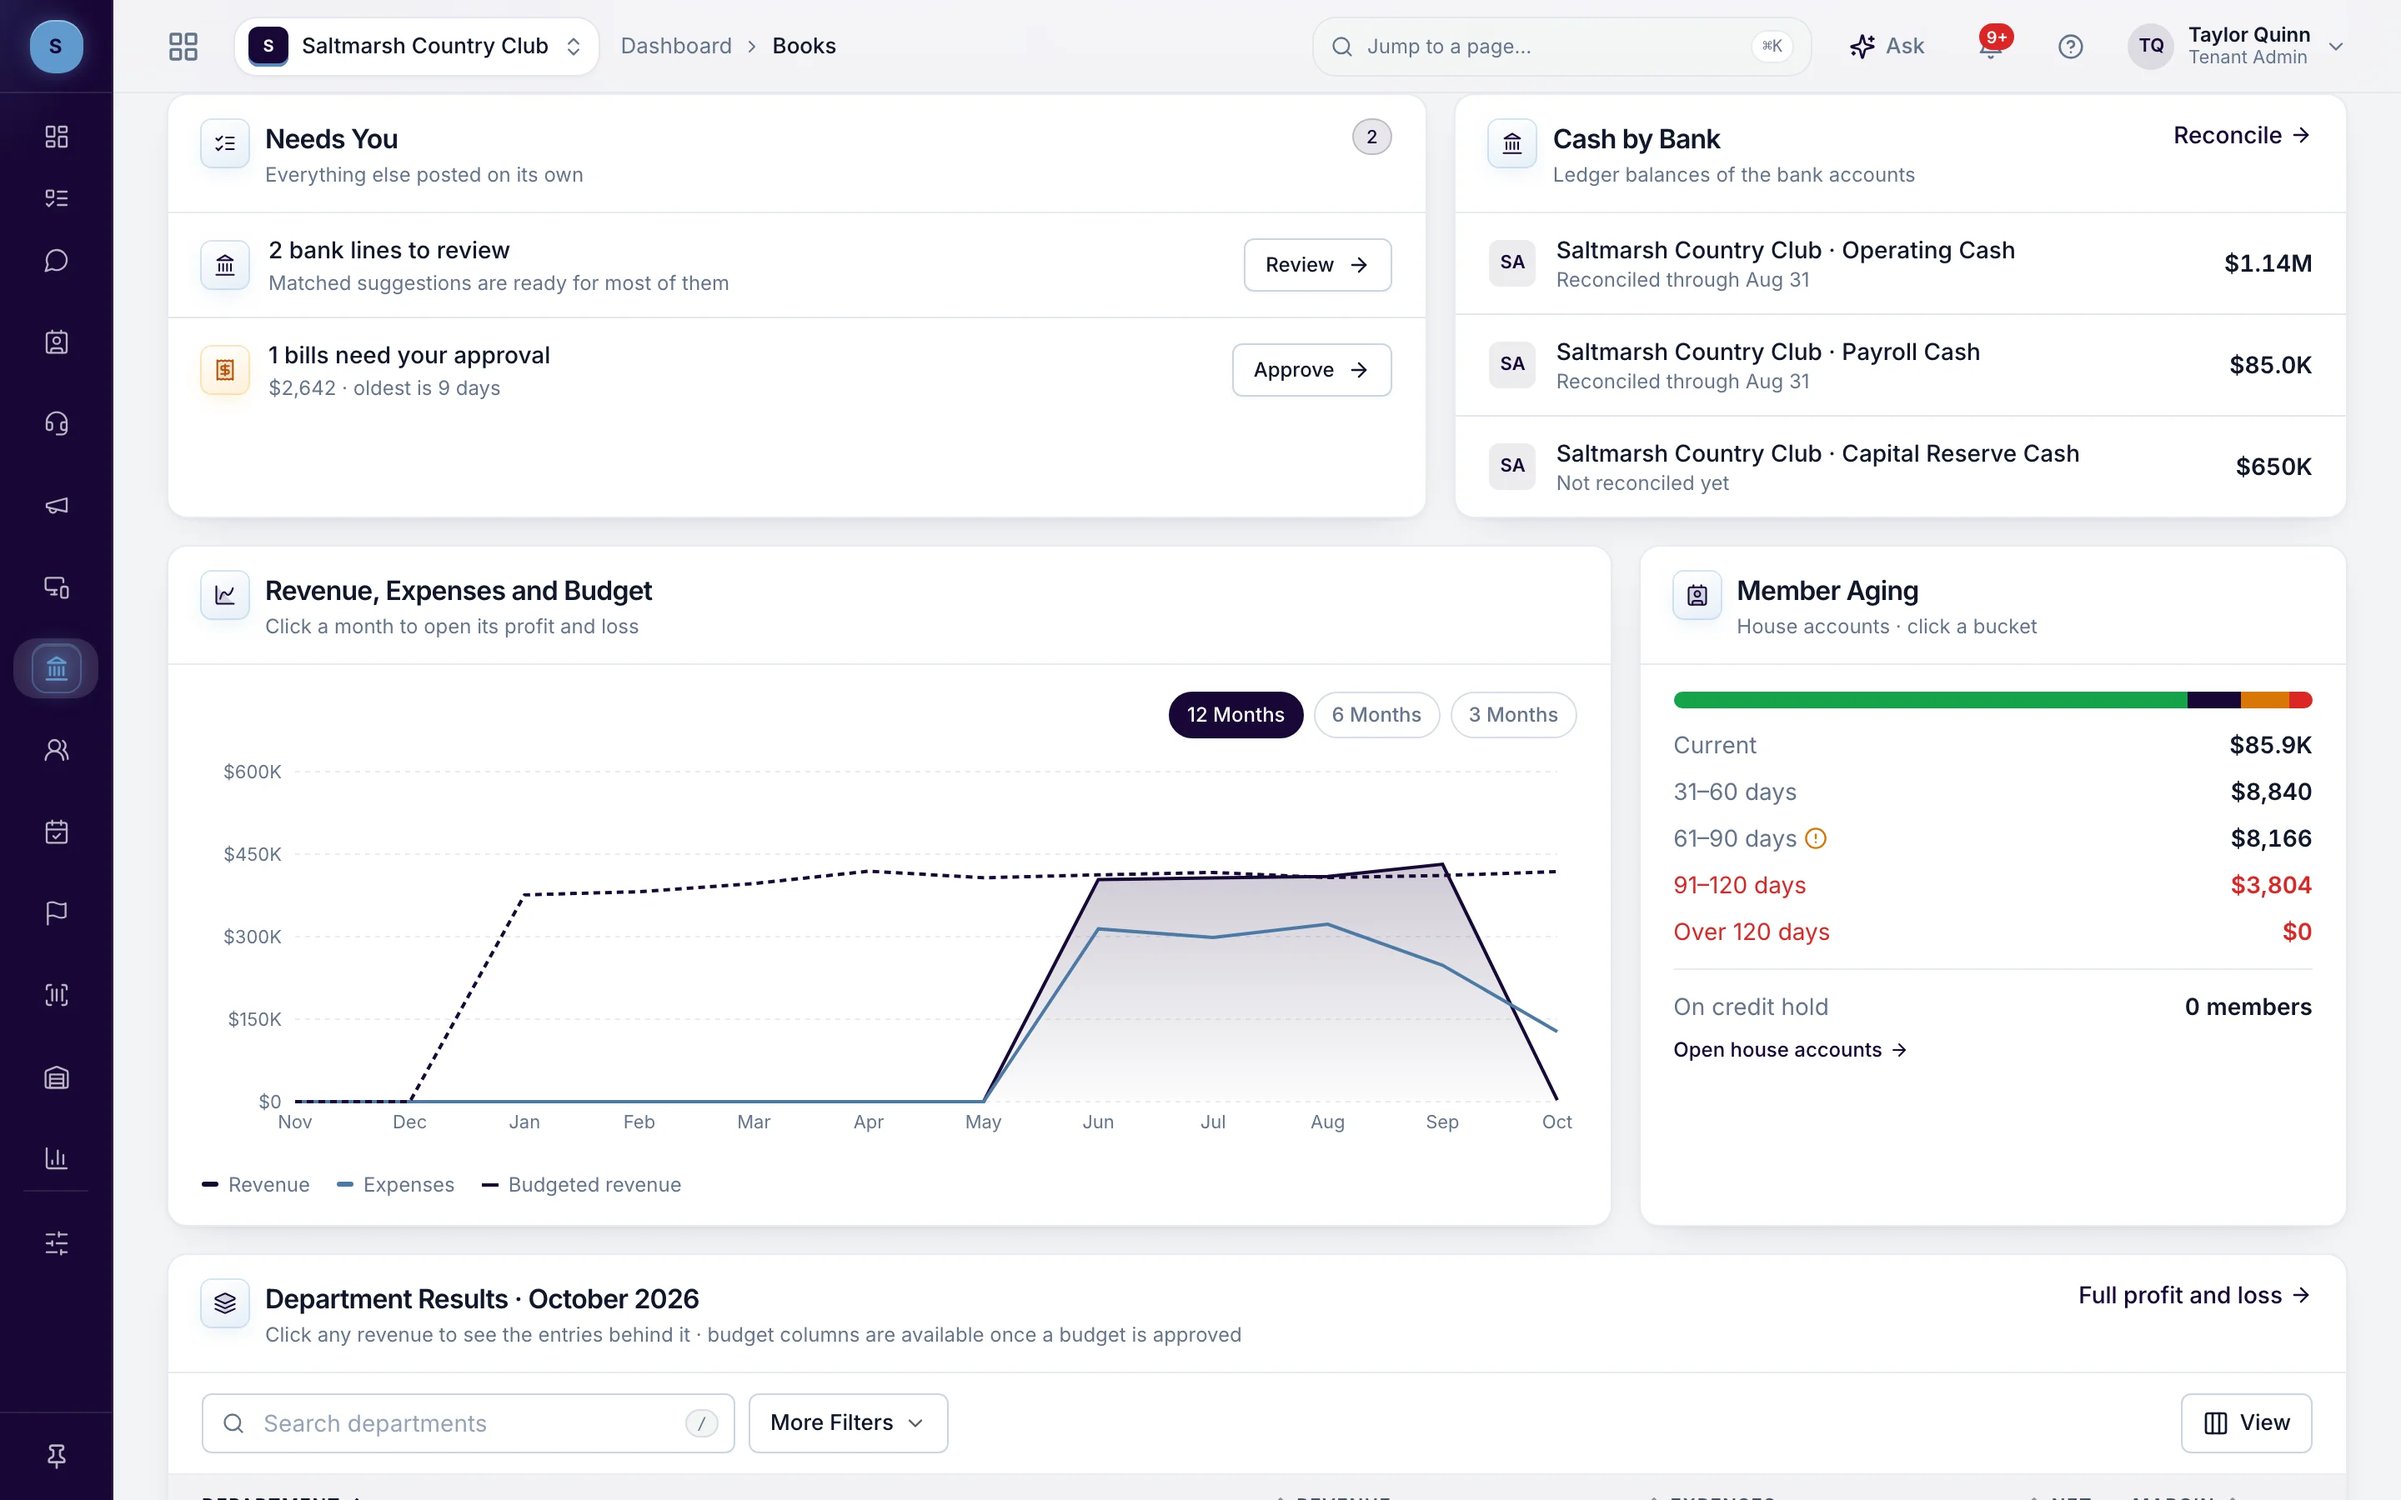
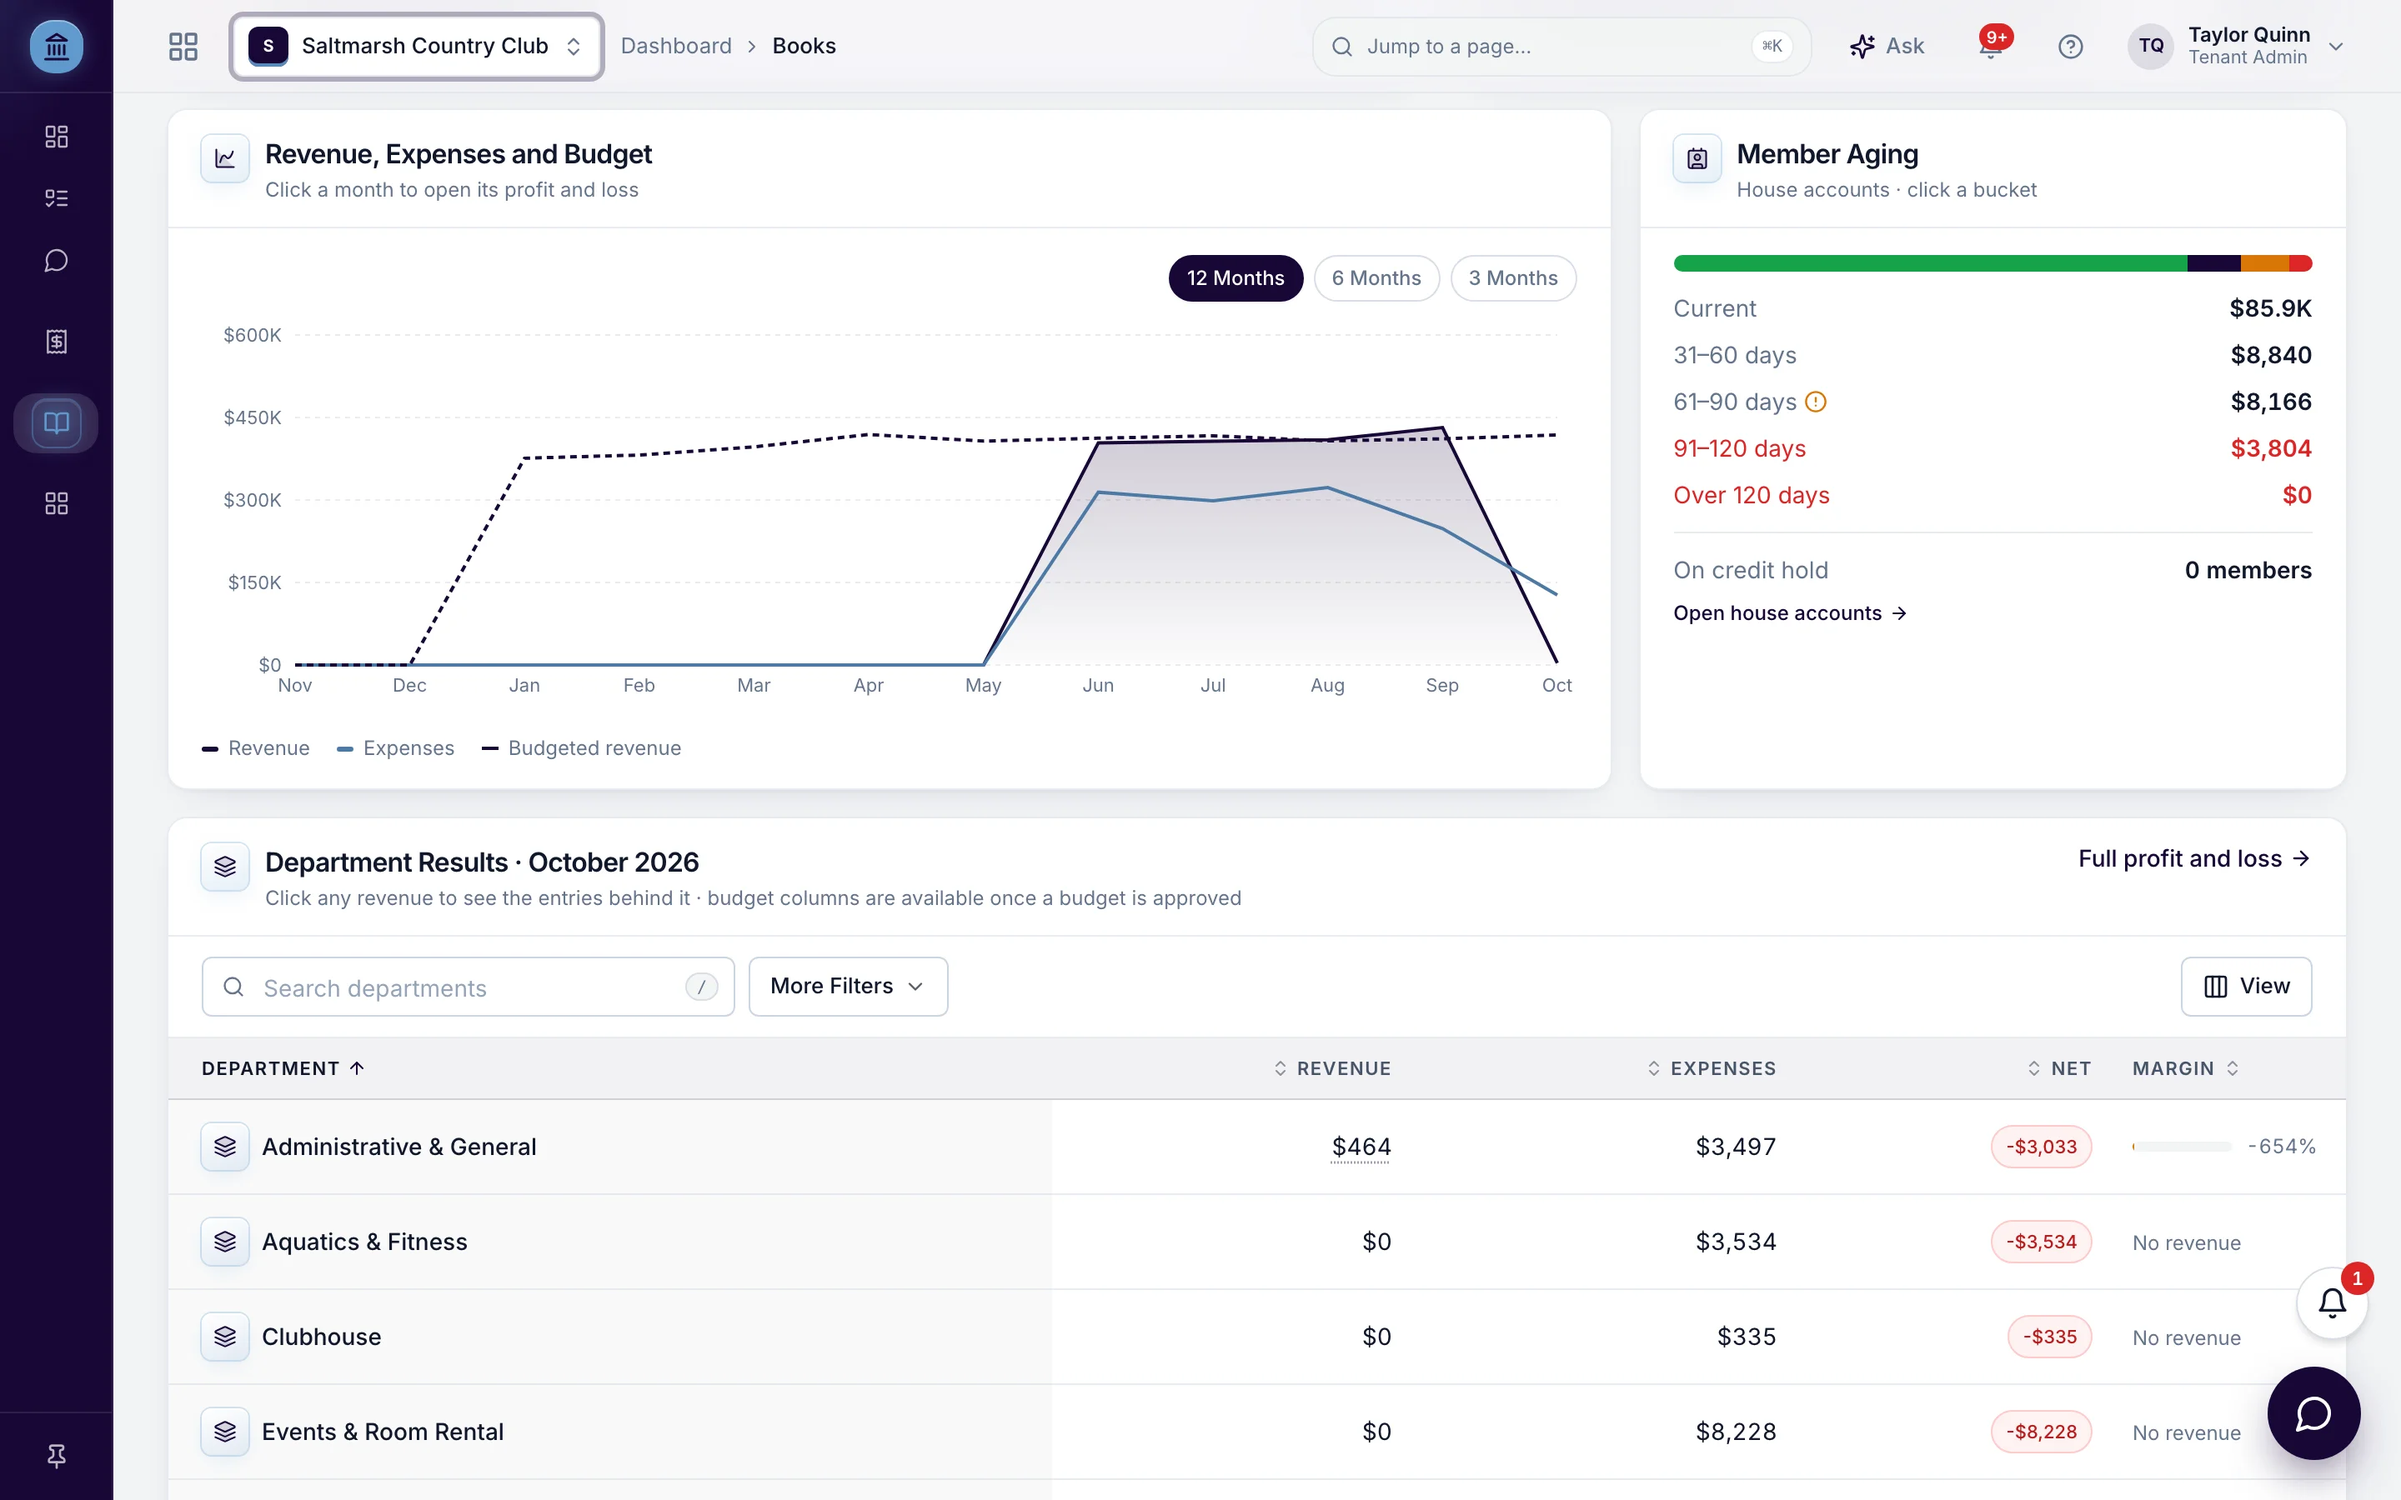
Retake every product screenshot from the current app
All 31 screens recaptured from the live staff app, POS and member portal
with today's chrome (open-page tabs, Ask, alerts, chat). Wallet vendor
badges painted out of the member home card. Captions follow the new shots.

Claude-Session: https://claude.ai/code/session_016Kyw1zTwUshUM5WAtPmg6B

diff --git a/src/app/golf-club-management-software/proposal/screens.ts b/src/app/golf-club-management-software/proposal/screens.ts
@@ -91,8 +91,8 @@ export const SCREENS: Record<string, Screen[]> = {
     },
   ],
   golf: [
-    { file: "tee-sheet.webp", title: "Tee sheet", alt: "Day tee sheet for a course with booked groups and open times" },
-    { file: "cart-sheet.webp", title: "Cart sheet", alt: "Cart sheet with numbered carts and assigned riders" },
+    { file: "tee-sheet.webp", title: "Tee sheet", alt: "Tee sheet of booked times for today and tomorrow across every course, with players, items, what is still owed and check-in status" },
+    { file: "cart-sheet.webp", title: "Cart sheet", alt: "Cart sheet for a day with fleet counts and the groups still waiting for a cart, ready for auto-assign" },
     {
       file: "golf-performance.webp",
       title: "Golf performance",
@@ -102,8 +102,8 @@ export const SCREENS: Record<string, Screen[]> = {
   pos: [
     {
       file: "pos-register.webp",
-      title: "Restaurant register",
-      alt: "A restaurant check for a table of two, with a dish grid on the left and the order by seat and course on the right",
+      title: "Close the day",
+      alt: "The register's end-of-day close for the whole club: sales, tax, tips, card fee and member charges by outlet, how it was paid, and the checks still blocking the close",
     },
     {
       file: "dining-reservations.webp",
@@ -142,7 +142,7 @@ export const SCREENS: Record<string, Screen[]> = {
     {
       file: "books-overview.webp",
       title: "Each club's books",
-      alt: "Accounting overview with items needing review, cash by bank account, a 12-month revenue, expense and budget chart, and member account aging",
+      alt: "One club's books: a 12-month revenue, expense and budget chart, member account aging, and results by department",
     },
     {
       file: "books-statements.webp",

diff --git a/src/app/golf-club-management-software/GolfClubContent.tsx b/src/app/golf-club-management-software/GolfClubContent.tsx
@@ -1011,7 +1011,7 @@ export default function GolfClubContent() {
             <figure className="gc-gallery-item">
               <Image
                 src="/images/golf/accounting-overview.webp"
-                alt="Accounting overview consolidated across all clubs, with revenue against budget, operating margin, cash and receivables"
+                alt="Books for all clubs together: a six-month revenue, expense and budget chart, member account aging and results by department"
                 width={2880}
                 height={1800}
                 quality={90}
@@ -1019,13 +1019,13 @@ export default function GolfClubContent() {
               />
               <figcaption>
                 <strong>Accounting overview</strong>
-                <span>Revenue against budget, margin, cash, receivables and deferred dues — any club or all clubs.</span>
+                <span>Revenue and expenses against budget, member account aging and results by department — any club or all clubs.</span>
               </figcaption>
             </figure>
             <figure className="gc-gallery-item">
               <Image
                 src="/images/golf/financial-statements.webp"
-                alt="Profit and loss by department with month columns against budget and prior year"
+                alt="Profit and loss by department for a month against the same month a year earlier, with variance"
                 width={2880}
                 height={1800}
                 quality={90}
